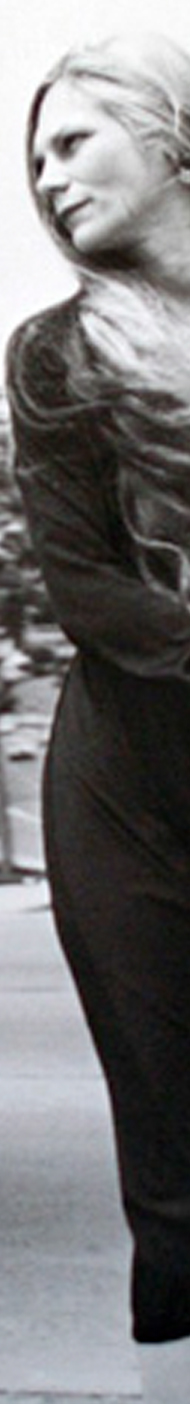
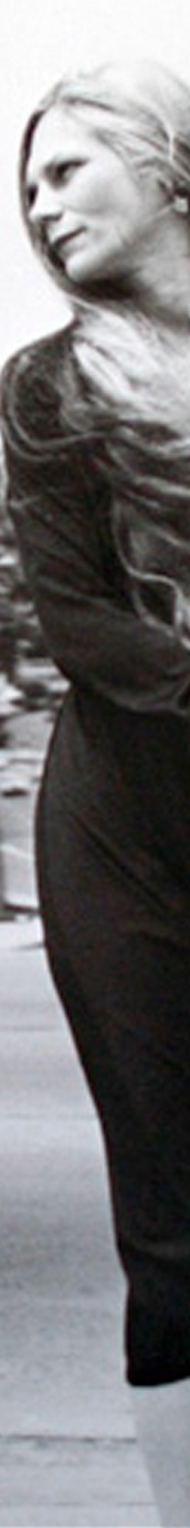
Add files via upload

diff --git a/streetphotography/garrywinogrand.html b/streetphotography/garrywinogrand.html
@@ -10,23 +10,23 @@
 	<a href="index.html"><div class="yellowbox"></div></a>
 	<a href="index.html"><h1 class="look">Look & See</h1></a>
 	<img class="cover" src="garrytop.jpg">
-	<!--<div class="practicesidebox"></div>-->
 	<a href="http://www.atgetphotography.com/Images/Photos/GarryWinogrand/winogrand_60.jpg"><img class="winosideA" src="winoside1.jpg"></a>
-	<a href="http://thewallbreakers.com/wp-content/uploads/2014/10/garry-winogrand-new-york-1962.jpg"><img class="winosideB" src="winoside2.jpg"></a>
 	<h1>The History & Photography of Garry Winogrand</h1>
 	<h2>by James Maher</h2>
 	<p>I would argue that when many people think of the genre, what first pops into their heads is the style of Garry Winogrand, and he would probably be turning in his grave right now given that he famously hated the term.</p>
 	<p class="gwshiftA">The energetic and restless <br> Winogrand incessantly captured <br> daily life in New York City and <br> America from the ’50s to the <br> early ‘80s, and his body of work <br> defined the post-World War II era <br> America, filled with opulence and <br> power, but mixed with a deep <br> underlying anxiety.</p>
 	<p class="gwshiftA">Born in 1928 as a Bronx native, <br> Winogrand studied photography <br> at the New School under Alexey <br> Brodovitch in 1949, who taught <br> him to rely on his instinct rather <br> than classical techniques, and it is <br> clear that this advice stuck and <br> helped him define his style. His <br> work was documentary but <br> spontaneous in nature, and <br>focused on the human condition.</p>
 	<p class="pullquote">His work was documentary but spontaneous in nature, and focused on the human condition.</p>
-	<p>Winogrand often employed tilted horizons and angles to fit more into the scene, while removing a sense of perfection and overt design. This helped his work feel more real, dynamic, anxiety ridden, and in the moment. It seems as if he purposely sought to distance himself from a more classical and orderly style and this helped mimic the spontaneous and chaotic nature of the moments and subjects that he was attracted to.</p>
-	<p class=gwshiftB>While he photographed in a quick <br> and spontaneous way, when <br> evaluating his work, it is clear that <br> he had a sharp focus with clear <br> narratives. He published four books <br> in his lifetime, Women are Beautiful, <br> The Animals, Public Relations, and <br> Stock Photographs: The Fort <br> Worth Fat Stock Show and Rodeo. <br> However, these four bodies of work <br> do not do justice to the full scope <br> of his life’s work and vision, and it <br> was actually the posthumous <br>publications of his work that <br> address this.</p>
-	<p class=gwshiftB>Jeff Rosenheim, curator in charge <br> of the Metropolitan Museum of <br> Art’s department of photographs, <br> stated that, “He was a collector, like Whitman, of experiences,” and <br> “I think there is this anxiety in the <br> pictures that suggests something <br> else is going on, which was <br> pervasive in the culture at the <br> time… It’s self-evident in the out-<br> of-control-ness that he allows into <br> his pictures and how they don’t <br> seem to have a center.” The <br> content, the form, the design, and <br> the focus mixed with ambiguity of <br>the images all came together to<br> portray the underlying feelings of<br> the culture at the time.</p>
+	<p>Winogrand often employed tilted horizons and angles to fit more into the scene, while removing a sense of perfection and overt design. This helped his work feel more real, dynamic, anxiety ridden, and in the  moment. It seems as if he purposely sought to distance himself from a more classical and orderly style and this helped mimic the spontaneous and chaotic nature of the moments and subjects that he was attracted to.</p>
+	<p>While he photographed in a <br> quick and spontaneous way, <br> when evaluating his work, it is  <br>clear that he had a sharp focus <br> with clear narratives. He <br>published four books in his <br> lifetime, Women are Beautiful, <br> The Animals, Public Relations, <br>and Stock Photographs: The <br>Fort Worth Fat Stock Show <br>and Rodeo. However, these <br>four bodies of work do not <br>do justice to the full scope <br> of his life’s work and vision, <br>and it was actually the <br>posthumous publications of <br> his work that address this.</p>
+	<p>Jeff Rosenheim, curator in <br>charge of the Metropolitan<br> Museum of Art’s department <br>of photographs, stated that,<br> “He was a collector, like <br>Whitman, of experiences,” <br>and “I think there is this anxiety <br>in the pictures that suggests <br>something else is going on, <br>which was pervasive in the<br> culture at the time… It’s<br> self-evident in the out-of-<br>control-ness that he allows into <br> his pictures and how they don’t <br> seem to have a center.” The <br> content, the form, the design,<br> and the focus mixed with<br> ambiguity of the images all <br>came together to portray the underlying feelings of the <br>culture at the time.</p>
+	<a href="http://api.x-traonline.org/wp-content/uploads/2013/10/161_4_Winogrand_LosAngeles.jpg"><img class="winosideB"src="winoside2.jpg"></a>
 	<p class="pullquote">He was a collector of experiences...</p>
 	<p>Winogrand paved a new way for photography to be considered as an art, but he did this with snapshots and without the delicate and formal nature that many photographers have used to compose their works. Winogrand went by his gut and his art revealed itself over time through the body of work, a formal build up of a narrative between hundreds of thousands of snapshots. Real life was his clay and he was constantly refining, moulding, and building on it each day.</p>
 	<p class="pullquote">Winogrand went by his gut and his art revealed itself over time through the body of work...</p>
-	<p>Even with this overarching narrative, Winogrand understood that photographs could be ambiguous and open to many interpretations. It is fascinating how you could take any image away from the group and have it interpreted in completely different ways. You could organize sets of the works into many different ideas and themes, opening the images to even further interpretation. But the entire body itself has a sharp-minded and obsessive focus on American life and culture.</p>
-	<p>Winogrand’s images were less perfect and the picturesque scene became less important to him over time. Winogrand seemed to grasp at imperfect moments in time. After all, perfection was rarely a part of real life. Elegant people were a major part of his focus, but he had a way of photographing them that seemed to strip the elegance away, to reveal the fears and troubles that lurked beneath the surface.</p>
+	<p class="gwshiftA">Even with this overarching <br>narrative, Winogrand <br>understood that photographs<br> could be ambiguous and open <br>to many interpretations. It is <br>fascinating how you could take<br> any image away from the group<br> and have it interpreted in <br>completely different ways. You<br> could organize sets of the<br> works into many different ideas <br>and themes, opening the <br>images to even further <br>interpretation. But the entire <br>body itself has a sharp-minded<br> and obsessive focus on <br>American life and culture.</p>
+	<p class="gwshiftA">Winogrand’s images were less<br> perfect and the picturesque <br>scene became less important<br> to him over time. Winogrand <br>seemed to grasp at imperfect<br> moments in time. After all,<br> perfection was rarely a part of <br>real life. Elegant people were a<br> major part of his focus, but he<br> had a way of photographing<br> them that seemed to strip the<br> elegance away, to reveal the <br>fears and troubles that lurked <br>beneath the surface.</p>
+	<a href="http://thewallbreakers.com/wp-content/uploads/2014/10/garry-winogrand-new-york-1962.jpg"><img class="winosideC" src="winoside3.jpg"></a>
 	<p class="pullquote">Winogrand seemed to grasp at imperfect moments in time.</p>
 	<p>Winogrand understood that he could tell a complex story through his work, and part of the story was about him. Through showing other people’s stories, he revealed his own internal struggles, fears, and his pondering of life’s questions.</p>
 

diff --git a/streetphotography/style.css b/streetphotography/style.css
@@ -155,9 +155,9 @@ p{
 	position: absolute;
 	margin-right: 20px;
 	width: 190px;
-	height: 2316px;
-	top: 4718px;
-	left: 790px;
+	height: 2586px;
+	top: 10071px;
+	left: 0px; 
 	background-color: blue;
 }
 
@@ -170,16 +170,23 @@ p{
 .winosideA{
 	position: absolute;
 	margin-right: 20px;
-	top: 1860px;
+	top: 1889px;
 	left: 0px;
 }
 
+
+
 .winosideB{
 	position: absolute;
-	top: 4718px;
+	top: 5013px;
 	left: 790px;
+	height: 2897px;
 }
 
+.winosideC{
+	position: absolute;
+	top: 9786px;
+}
 /*
 .linkA{
 	top: 11365px;

diff --git a/streetphotography/robertfrank.html b/streetphotography/robertfrank.html
@@ -11,6 +11,8 @@
 	<a href="index.html"><h1 class="look">Look & See</h1></a>
 	<img class="cover" src="franktop.jpg">
 
+	<div class="practicesidebox"></div>
+
 	<h1>Robert Frank’s America</h1>
 	<h2>by James Maher</h2>
 
